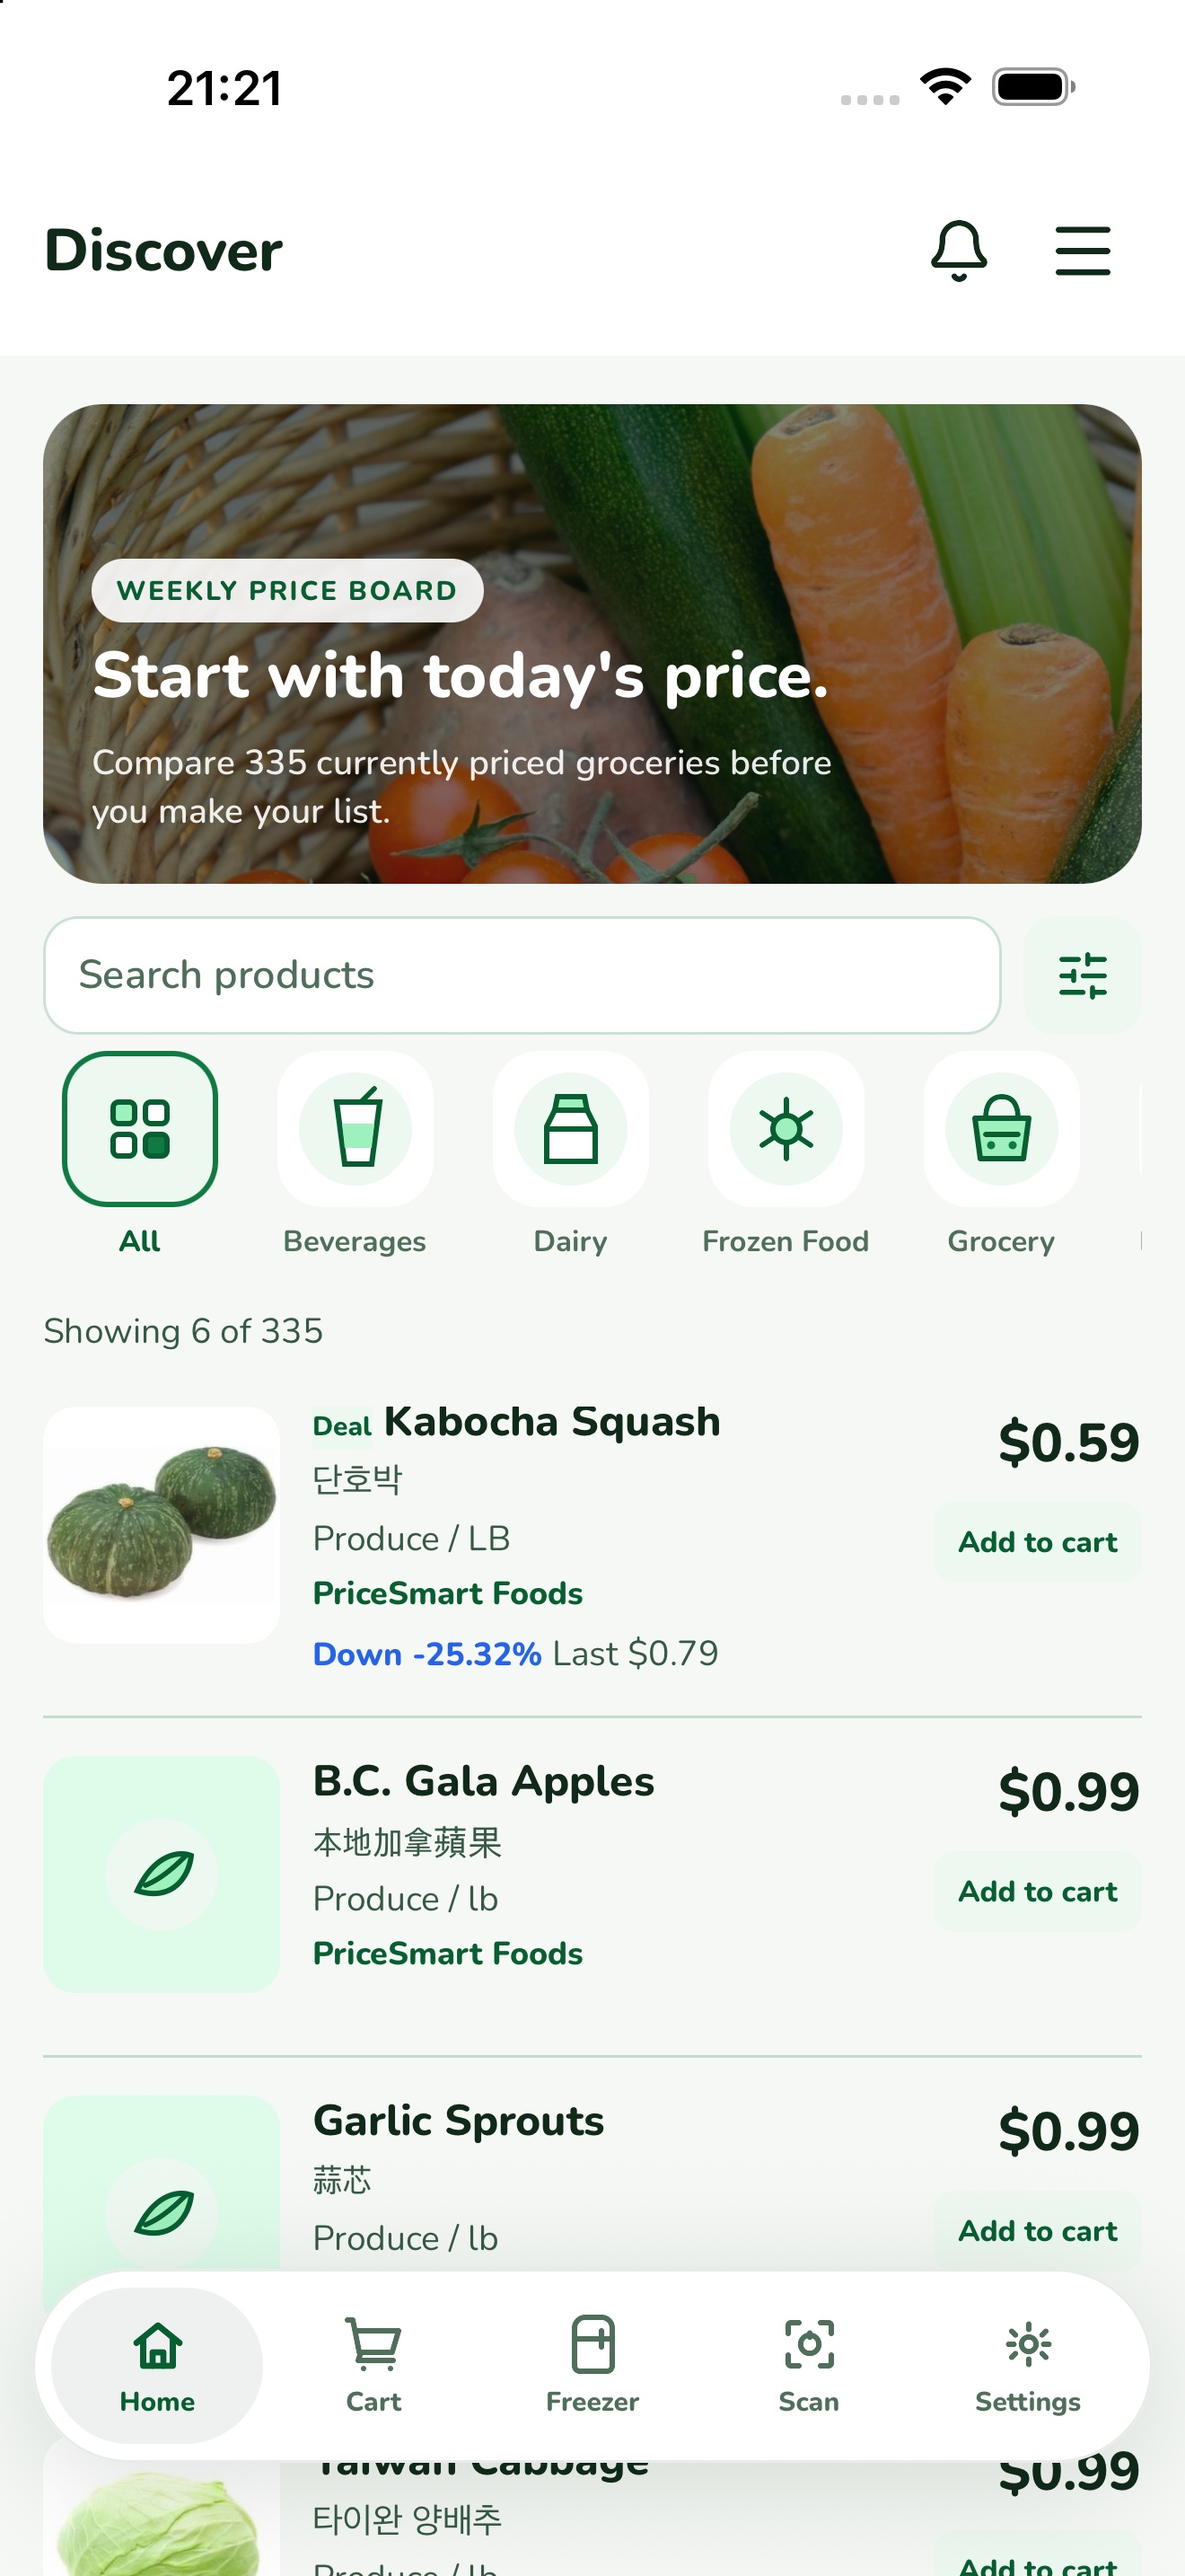
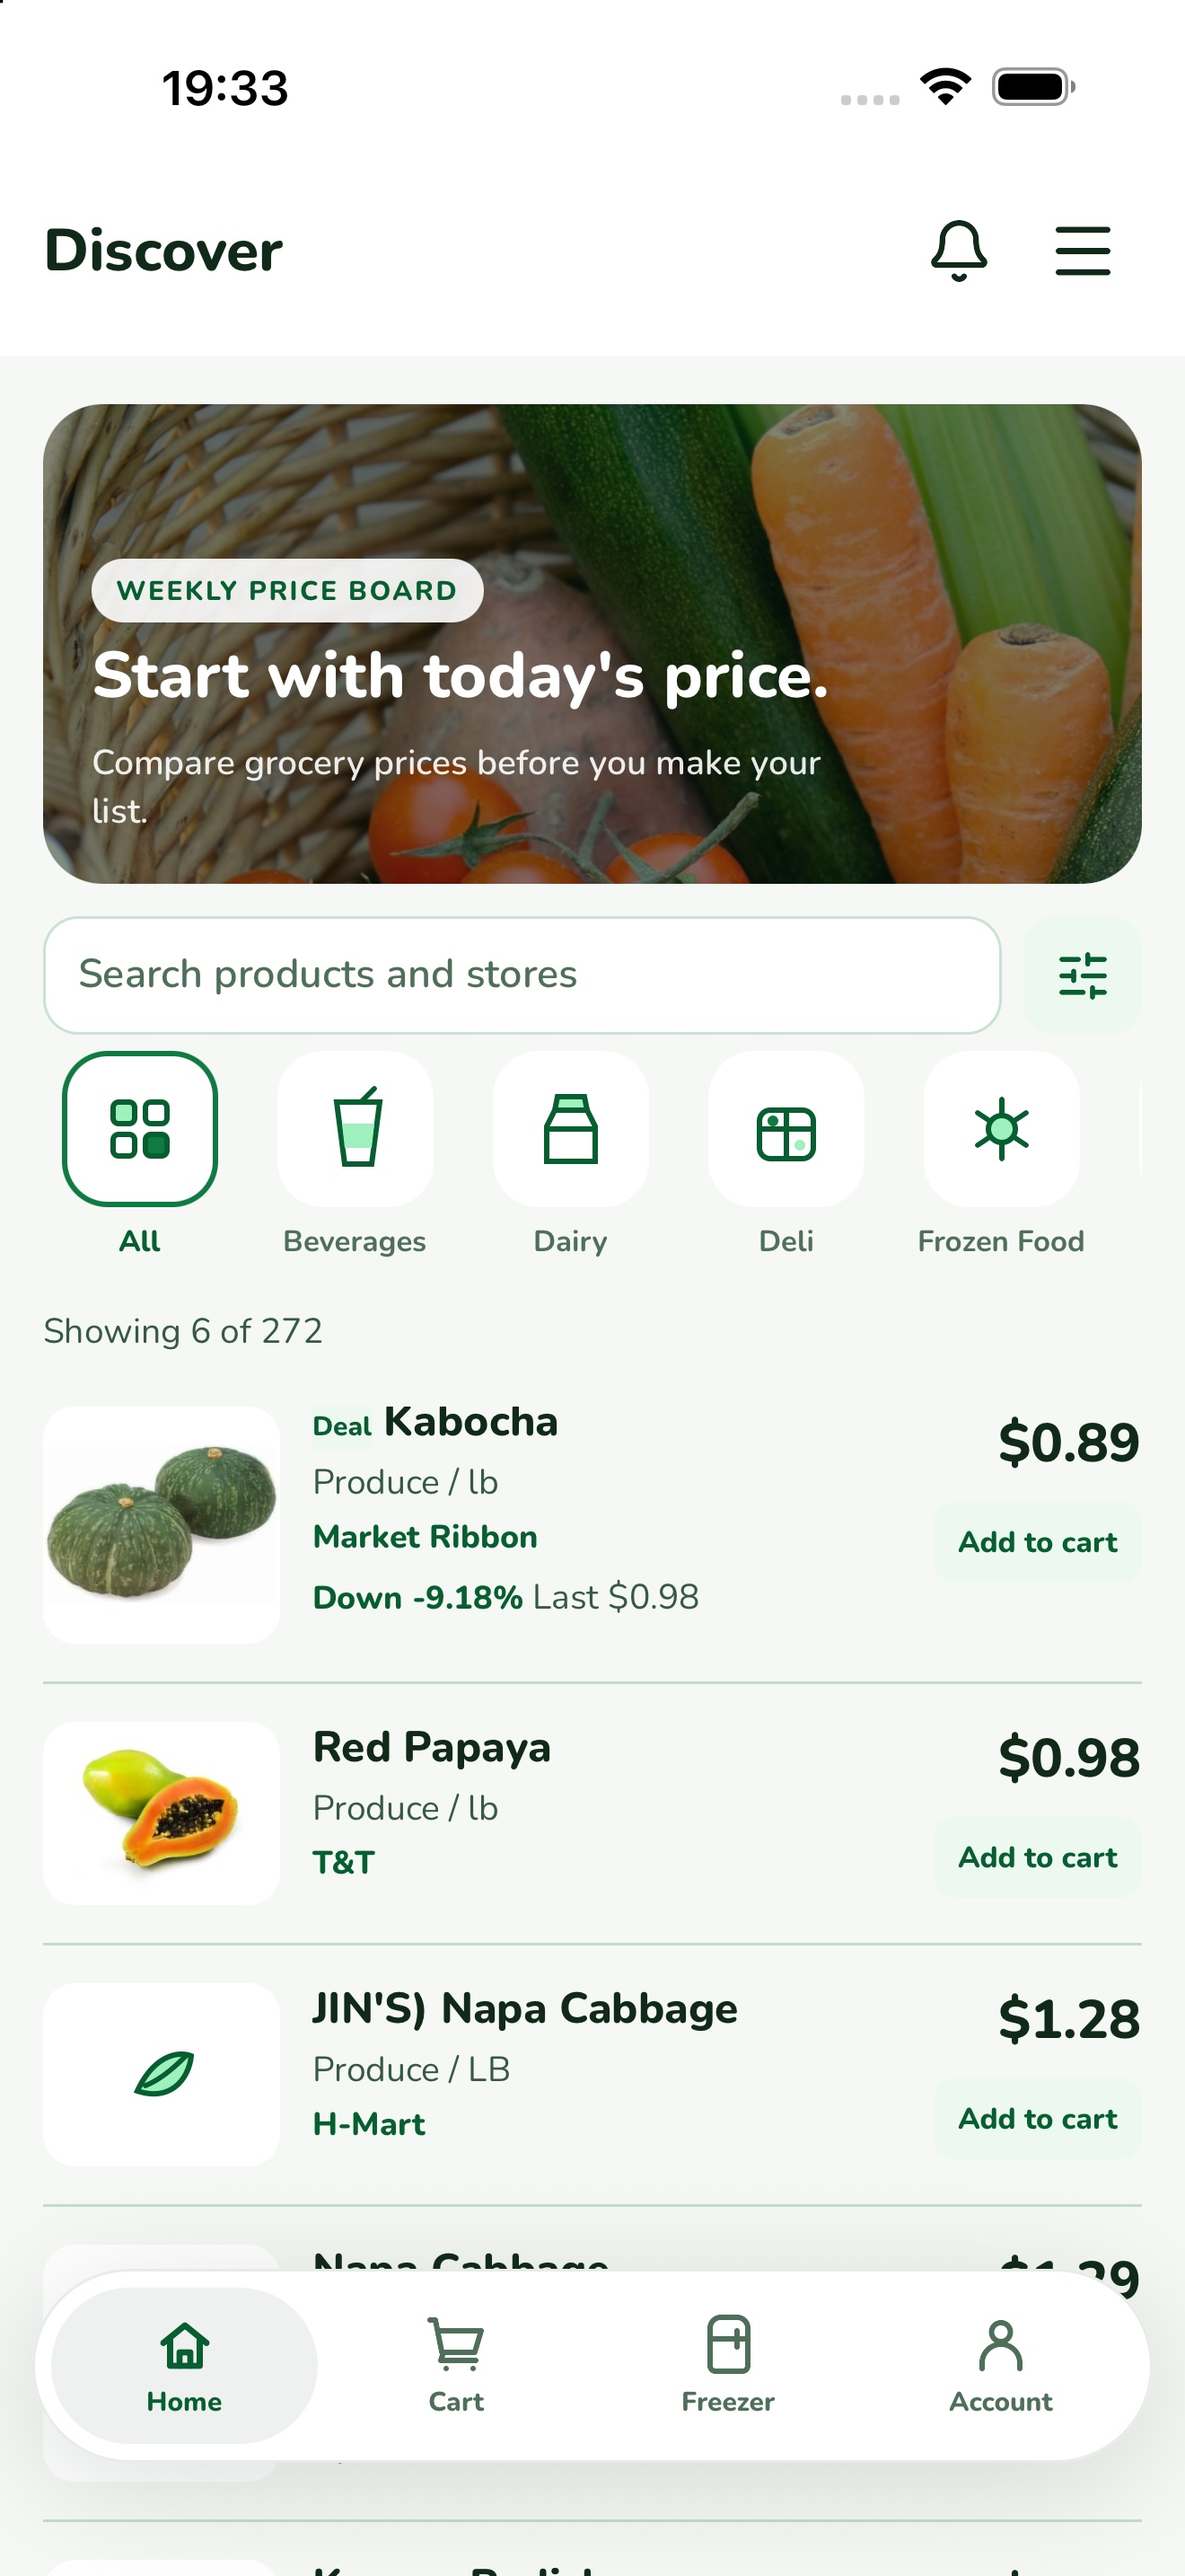
docs: refresh App Store screenshots for build 17

diff --git a/store-assets/screenshots/README.md b/store-assets/screenshots/README.md
@@ -1,53 +1,38 @@
-# Store Screenshot Capture Plan
+# Store Screenshots
 
-Screenshots should be real device or simulator captures from the production app
-build. Do not use the web admin dashboard or synthetic mockups for store review.
+Use real device or simulator captures from a release build. Do not use the web
+admin dashboard, synthetic mockups, fabricated data, or overlays.
 
-## Captured iPhone set — September 16, 2026 (UTC)
+## Current iOS submission — September 25, 2026 (UTC)
 
-`ios-6.9/01-discover.jpg`, `02-price-details.jpg`, and `03-stores.jpg` are actual
-Release-app captures from iPhone 17 Pro Max / iOS 26.5, made with Xcode 27 Device Hub.
-They show the production catalog, product price detail, and supported-store list.
-The user was signed out, with optional location and notifications skipped.
+The active set contains two unedited 1320 × 2868 JPEG screenshots:
 
-The files are 1320 × 2868 JPEGs without alpha, converted from the original Device
-Hub PNG captures without changing layout or content. No synthetic UI, overlay text,
-or fabricated data was added. Capture source: `610bd59`, version 1.0.0 (10).
+- `ios-6.9/01-discover.jpg`: Home with the live production catalog.
+- `ios-6.9/02-price-details.jpg`: Product Details with the current price, price
+  change, store, Cart action, sale alert action, and price trend.
 
-The simulator build used the existing app deployment target of iOS 15.1 to override
-older Pods' deployment targets rejected by Xcode 27, and `ARCHS=arm64` with
-`ONLY_ACTIVE_ARCH=YES`. Those command-line overrides did not change the project.
+Both were captured from the Release simulator app built from `a2d6621`, version
+1.0.0 (17), on iPhone 17 Pro Max / iOS 26.5 using
+`simctl io screenshot --type=jpeg`. The app was signed out and optional location
+was skipped. No layout or content was altered after capture.
 
-## iOS
+Both images were uploaded to the English (U.S.) App Store Connect screenshot set
+and reached `COMPLETE`. They replace the previous build 10 screenshots. The old
+Stores screenshot was removed from the active set because it does not represent
+the latest build; its previous contents remain available in Git history.
 
-Capture at least these screens from a release or TestFlight build:
+The simulator build used an iOS 15.1 deployment-target override for older Pods
+and `ARCHS=arm64` with `ONLY_ACTIVE_ARCH=YES`. These command-line overrides did
+not change the project or consume an EAS cloud build.
 
-- Home catalog with price and unit visible
-- Product detail with chart and store price comparison
-- Watchlist with a watched item and target-price state
-- Map with store markers and optional location permission skipped or accepted
-- More account screen showing sign in and account deletion path
+## Future captures
 
-Recommended upload sets:
+Refresh screenshots whenever the visible app changes. Useful additional screens
+include Cart, sale alerts, the store map, and Account. Capture authenticated
+screens only with a dedicated account containing no personal information.
 
-- 6.9-inch iPhone display
-- 6.5-inch iPhone display
-This first release targets iPhone only, so iPad screenshots are not part of the
-default submission package.
+This release targets iPhone. Check App Store Connect's current display-size
+requirements when adding screenshots; iPad is not part of this submission.
 
-## Android
-
-Capture at least these screens from the signed Android App Bundle or an internal
-testing install:
-
-- Home catalog with price and unit visible
-- Product detail with chart and store price comparison
-- Watchlist with a watched item and target-price state
-- Map with store markers and optional location permission skipped or accepted
-- More account screen showing sign in and account deletion path
-
-Recommended upload sets:
-
-- Phone screenshots
-- 7-inch tablet screenshots if Play Console requests them
-- 10-inch tablet screenshots if Play Console requests them
+Android screenshots have not been refreshed for this release. Capture them from
+a signed release or internal-testing install before a Google Play submission.
